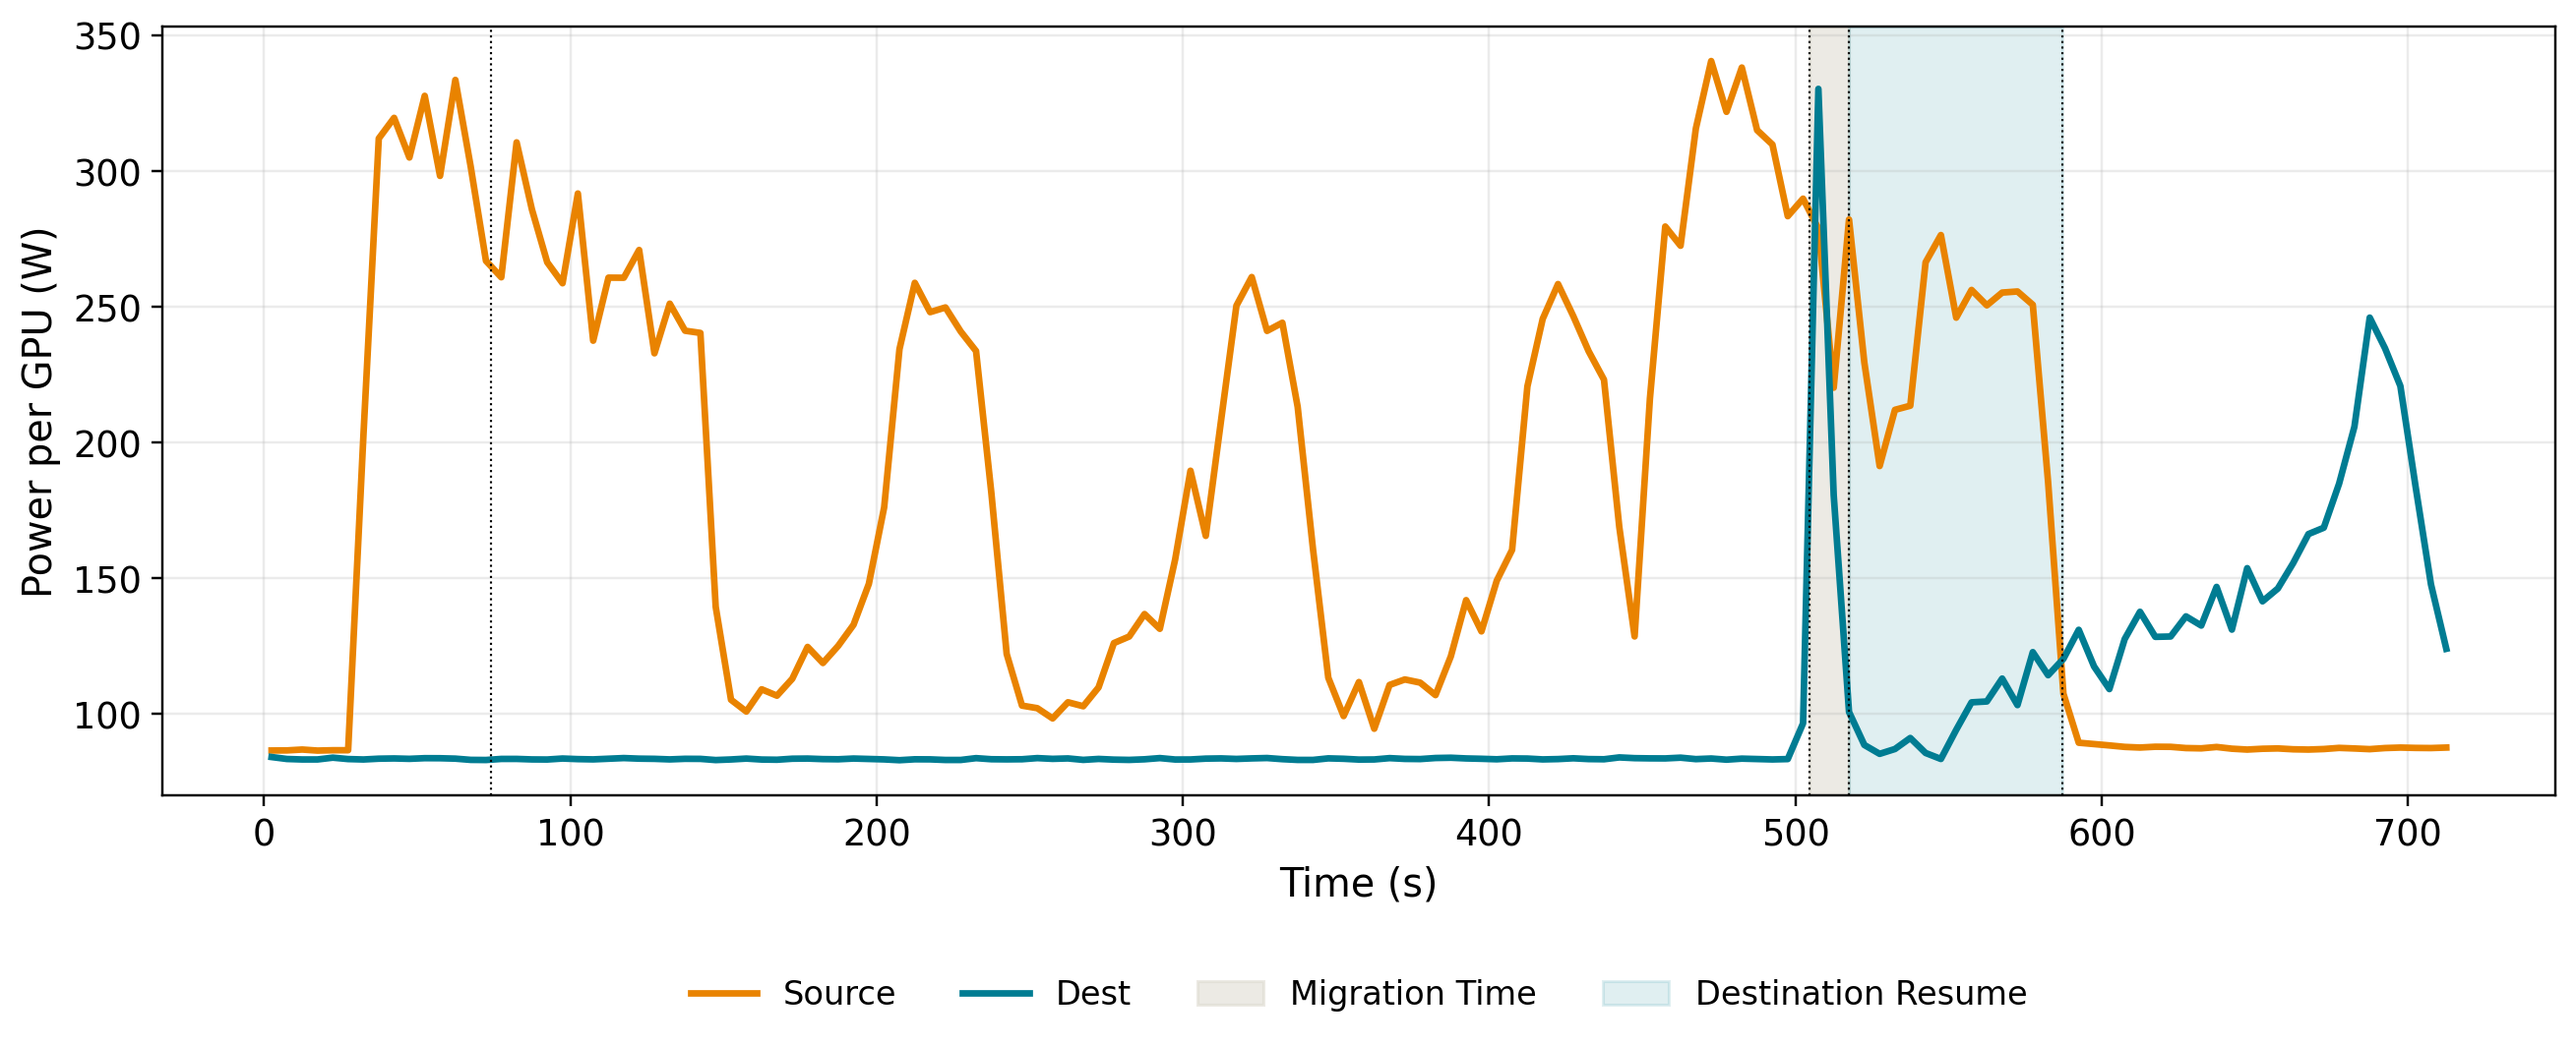
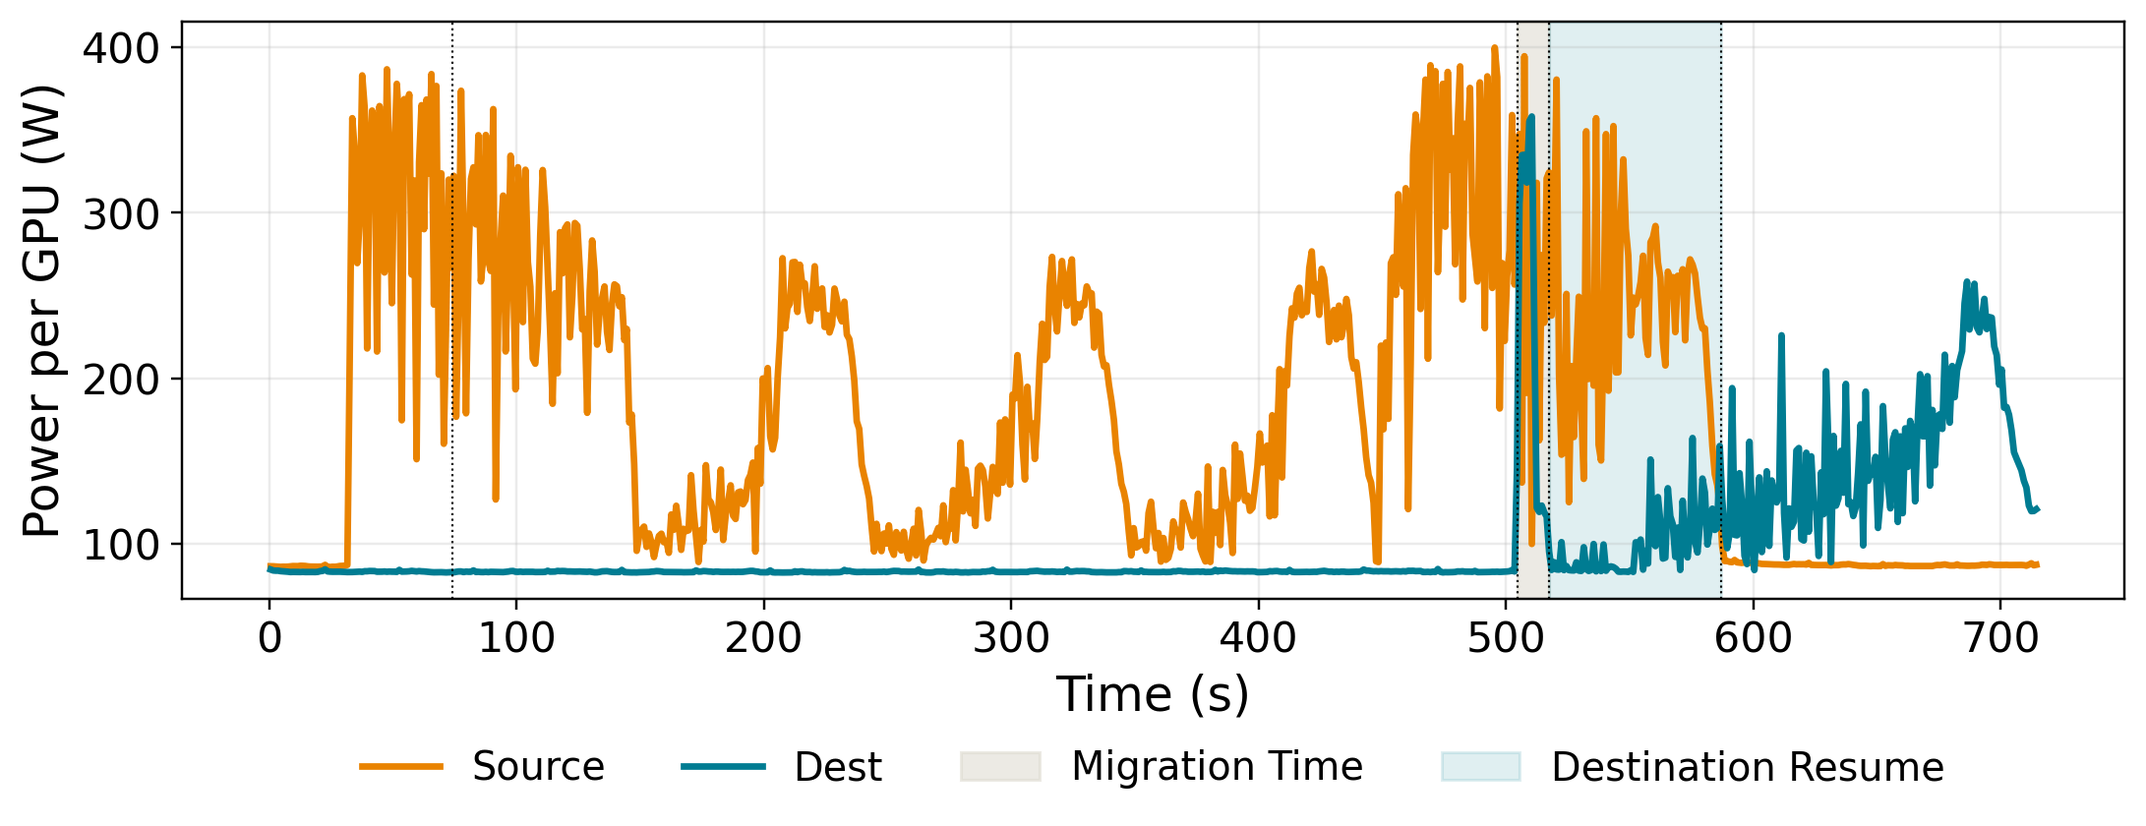
Plot one-second power averages

Changed region(s): [[0.0, 0.0, 0.9973, 0.8667], [0.2181, 0.8976, 0.9038, 0.9595]]

diff --git a/agent-migrate/queue-haul/outputs/live-power-oneoff/driver.py b/agent-migrate/queue-haul/outputs/live-power-oneoff/driver.py
@@ -167,9 +167,9 @@ def parse_wall(value: str) -> float:
 def bin_power(rows: list[dict], origin: float) -> tuple[list[float], list[float]]:
     bins = {}
     for row in rows:
-        index = int((parse_wall(row["timestamp"]) - origin) // 5)
+        index = int(parse_wall(row["timestamp"]) - origin)
         bins.setdefault(index, []).append(float(row["power.draw [W]"]))
-    return ([index * 5 + 2.5 for index in sorted(bins)],
+    return ([index + .5 for index in sorted(bins)],
             [statistics.mean(bins[index]) for index in sorted(bins)])
 
 
@@ -256,7 +256,7 @@ def reduce_power(run_root: Path, local_power: Path, markers: Markers,
 
     origin = markers.rows[0]["wall_ns"] / 1e9
     plt.style.use("default")
-    fig, ax = plt.subplots(figsize=(12, 5))
+    fig, ax = plt.subplots(figsize=(10, 4))
     for label, uuid, color in (
         ("Source", role_uuids[0], "#E98300"),
         ("Dest", role_uuids[1], "#007C92"),
@@ -276,13 +276,13 @@ def reduce_power(run_root: Path, local_power: Path, markers: Markers,
         if name in marker:
             ax.axvline(marker[name], color="black", lw=.7, ls=":")
     ax.set(xlabel="Time (s)", ylabel="Power per GPU (W)")
-    ax.tick_params(labelsize=12)
-    ax.xaxis.label.set_size(13)
-    ax.yaxis.label.set_size(13)
+    ax.tick_params(labelsize=14)
+    ax.xaxis.label.set_size(16)
+    ax.yaxis.label.set_size(16)
     ax.grid(alpha=.25)
     for spine in ax.spines.values():
         spine.set_color("black")
-    ax.legend(frameon=False, fontsize=11, loc="upper center",
+    ax.legend(frameon=False, fontsize=13, loc="upper center",
               bbox_to_anchor=(.5, -.2), ncol=4)
     fig.tight_layout()
     for suffix in ("png", "pdf"):

diff --git a/agent-migrate/queue-haul/tests/test_live_power_plot.py b/agent-migrate/queue-haul/tests/test_live_power_plot.py
@@ -1,6 +1,6 @@
 """
 Claim:
-Power samples are averaged independently in fixed 5 s bins.
+Power samples are averaged independently in fixed 1 s bins.
 
 Plausible wrong implementations:
 - Use a rolling average instead of fixed bins.
@@ -24,16 +24,16 @@ driver = importlib.util.module_from_spec(SPEC)
 SPEC.loader.exec_module(driver)
 
 
-def test_power_uses_fixed_five_second_mean_bins():
+def test_power_uses_fixed_one_second_mean_bins():
     rows = [
         {"timestamp": f"2026/08/03 00:00:{second}", "power.draw [W]": watts}
-        for second, watts in (("00.000", "100"), ("04.999", "200"),
-                              ("05.000", "400"), ("09.999", "600"))
+        for second, watts in (("00.000", "100"), ("00.999", "200"),
+                              ("01.000", "400"), ("01.999", "600"))
     ]
 
     times, watts = driver.bin_power(rows, driver.parse_wall(rows[0]["timestamp"]))
 
-    assert times == pytest.approx([2.5, 7.5])
+    assert times == pytest.approx([.5, 1.5])
     assert watts == pytest.approx([150, 500])
 
 

diff --git a/agent-migrate/queue-haul/outputs/live-power-oneoff/README.md b/agent-migrate/queue-haul/outputs/live-power-oneoff/README.md
@@ -2,7 +2,7 @@
 
 Slurm job `37368991` ran eight LMCache replay migrations across two A100 80 GB GPUs while trace-shaped inference remained queued on the source, then switched queued inference to the destination. No LMCache bypass was used.
 
-`run-37368991/` contains native PowerTrace samples, phase markers, queue metrics for all three foreground intervals, payload-free transfer telemetry, a prompt-free migration summary, and rendered plots. The power plot averages Stanford Poppy source and Stanford Lagunita destination samples into fixed 5 s bins; highlighted regions span migration start through completion and destination resume through source shutdown. Request bodies and message-bearing result files are intentionally excluded. `driver.submitted.py` is the exact job driver; `../driver.py` adds portable postprocessing and the documented sampling-coverage gate.
+`run-37368991/` contains native PowerTrace samples, phase markers, queue metrics for all three foreground intervals, payload-free transfer telemetry, a prompt-free migration summary, and rendered plots. The power plot averages Stanford Poppy source and Stanford Lagunita destination samples into fixed 1 s bins; highlighted regions span migration start through completion and destination resume through source shutdown. Request bodies and message-bearing result files are intentionally excluded. `driver.submitted.py` is the exact job driver; `../driver.py` adds portable postprocessing and the documented sampling-coverage gate.
 
 Slurm recorded exit `1` only after the completed measurement because the submitted reducer rejected any cadence gap over 250 ms. The portable reducer instead hard-fails below 90% overall coverage or above a one-second blind spot.
 
